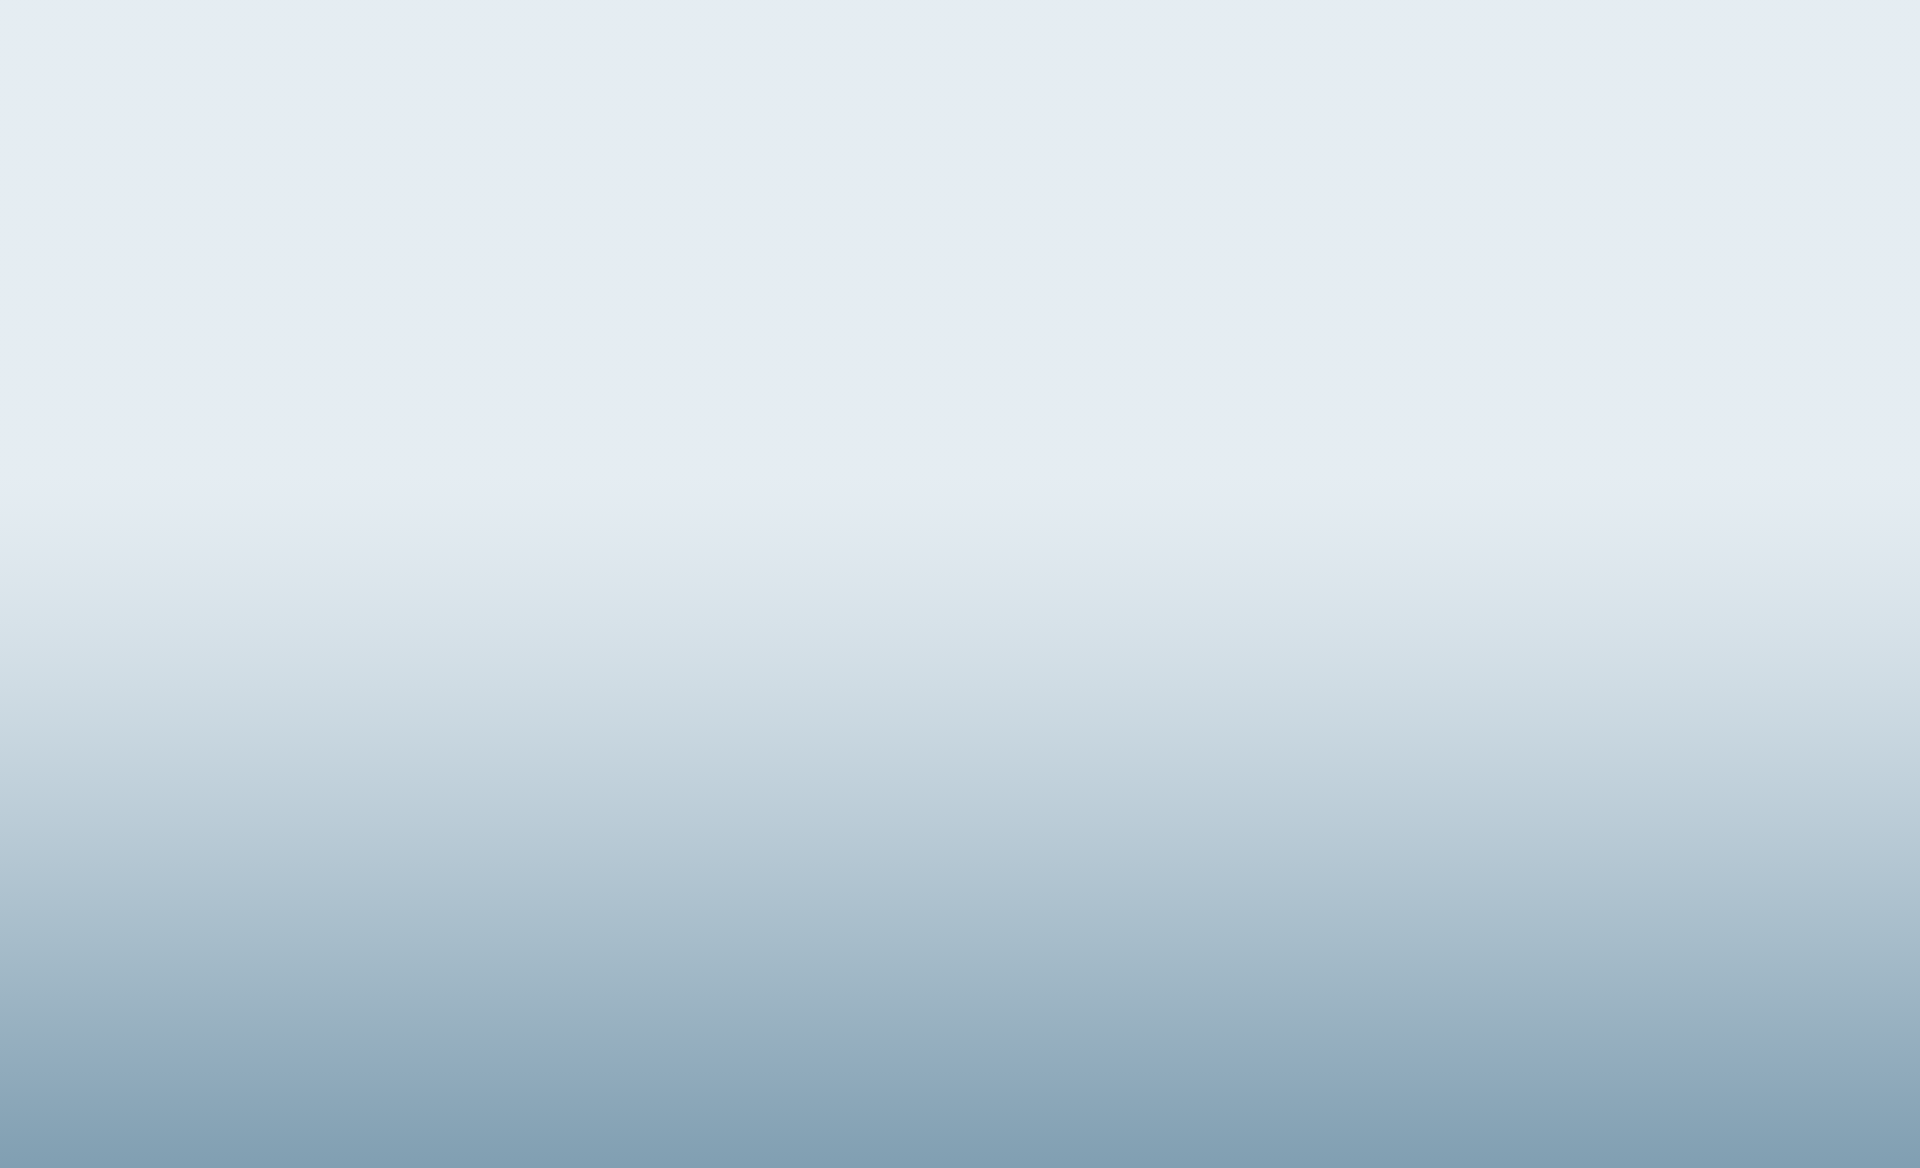
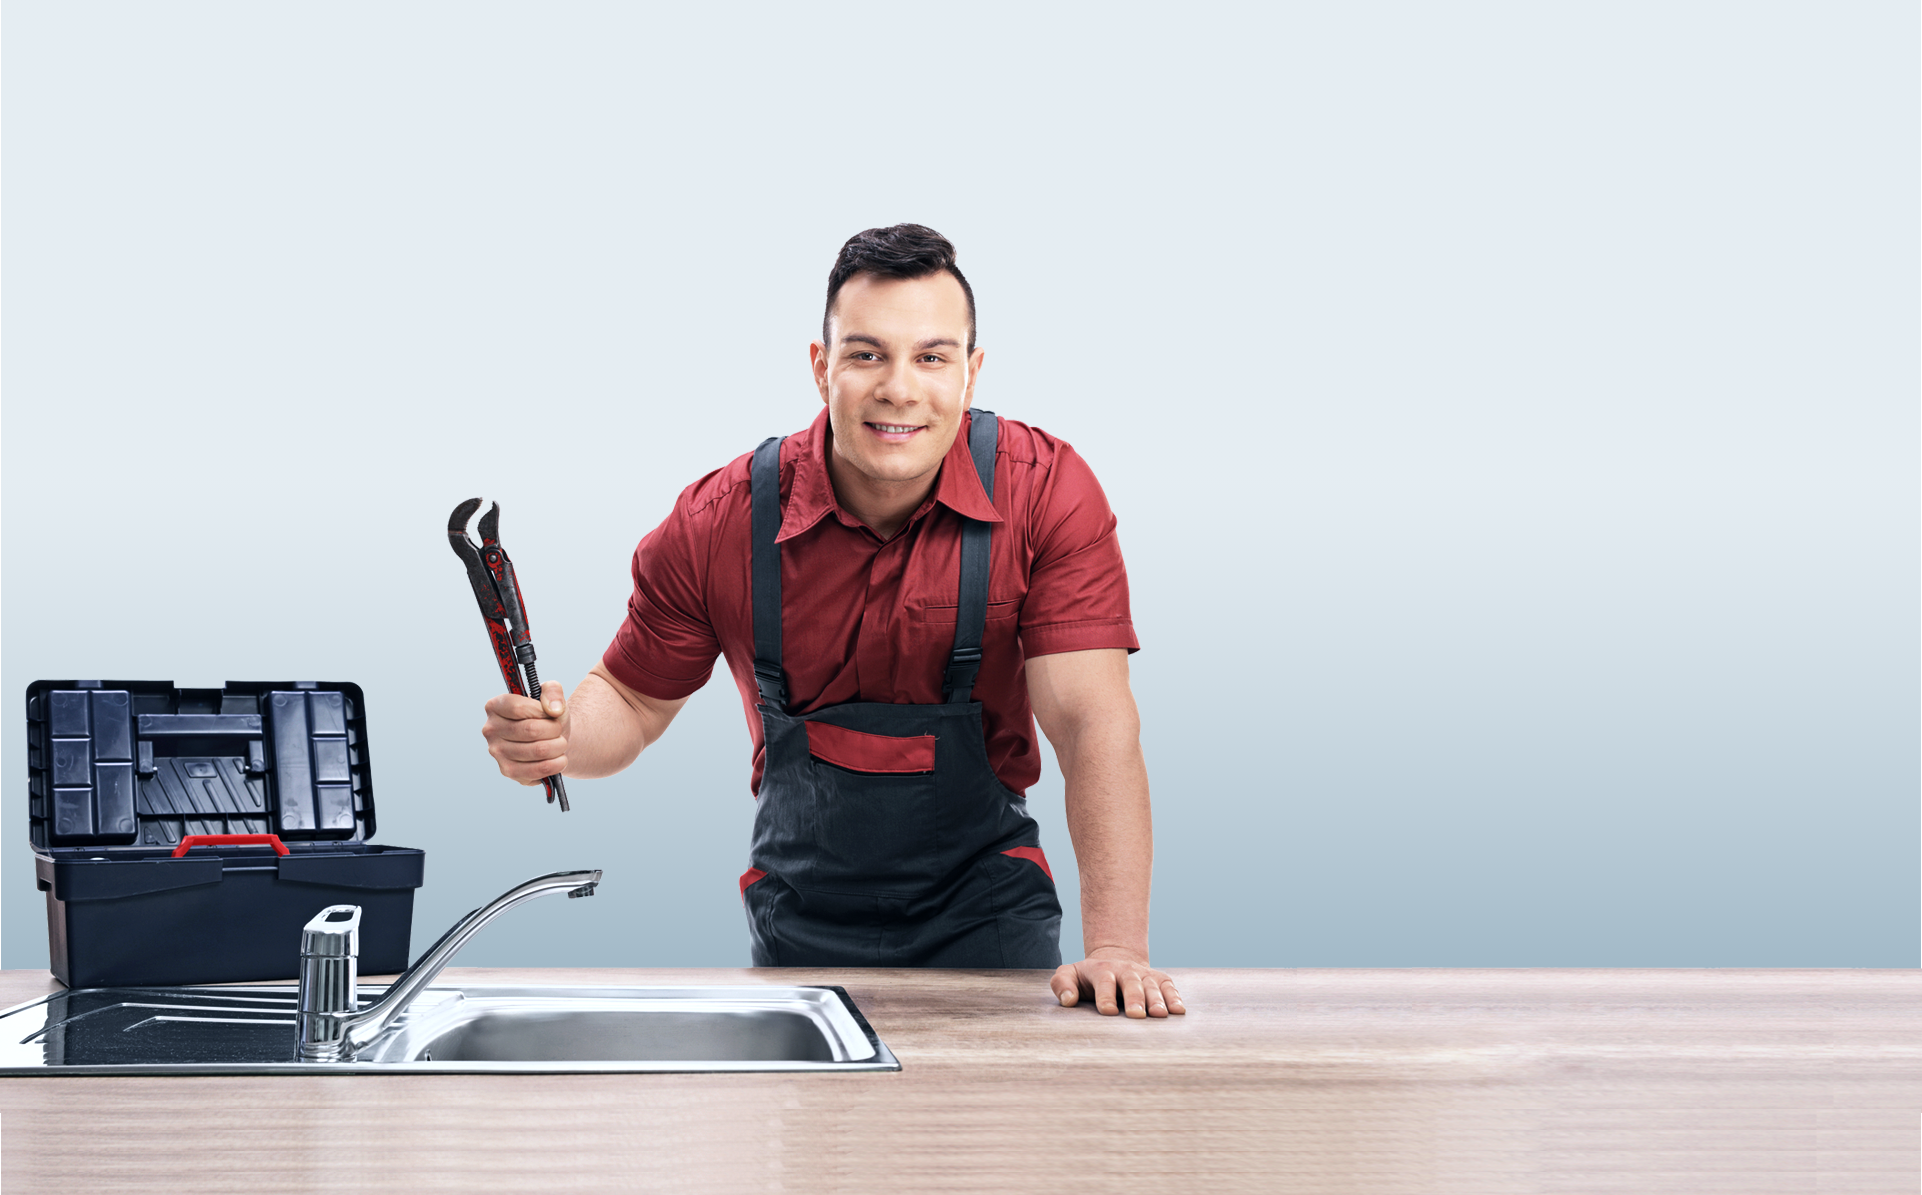
House

diff --git a/css/style.css b/css/style.css
@@ -408,11 +408,16 @@ input:focus:-ms-input-placeholder {
     letter-spacing: 0.45px; }
 
 .section {
-  background: url(../img/bg-work.png);
-  position: relative; }
+  background: url(../img/bg-work.png) no-repeat;
+  background-size: cover; }
   .section .work {
-    position: absolute;
-    top: 0; }
+    display: -webkit-box;
+    display: -ms-flexbox;
+    display: flex;
+    -webkit-box-orient: vertical;
+    -webkit-box-direction: normal;
+    -ms-flex-direction: column;
+    flex-direction: column; }
     .section .work__item1 {
       width: 36%;
       display: inline-block; }
@@ -424,7 +429,9 @@ input:focus:-ms-input-placeholder {
       font-family: "Gilroy-ExtraBold";
       font-size: 44px;
       font-weight: 400;
-      letter-spacing: 1.1px; }
+      letter-spacing: 1.1px;
+      margin: 0;
+      padding: 104px 0 114px; }
     .section .work__subtitle {
       color: #132b47;
       font-size: 24px;

diff --git a/css/work.scss b/css/work.scss
@@ -1,10 +1,10 @@
 .section {
-	background: url(../img/bg-work.png);
-	position: relative;
+	background: url(../img/bg-work.png) no-repeat;
+	background-size: cover;
 
 	.work {
-		position: absolute;
-		top: 0;
+		display: flex;
+		flex-direction: column;
 
 		&__item1 {
 			width: 36%;
@@ -22,6 +22,8 @@
 			font-size: 44px;
 			font-weight: 400;
 			letter-spacing: 1.1px;
+			margin: 0;
+			padding: 104px 0 114px;
 		}
 
 		&__subtitle {

diff --git a/index.html b/index.html
@@ -287,8 +287,6 @@
 
 	<section class="section">
 
-		<img class="work__img" src="img/bg-man-work.png" alt="man">
-
 		<div class="container">
 
 			<div class="work">
